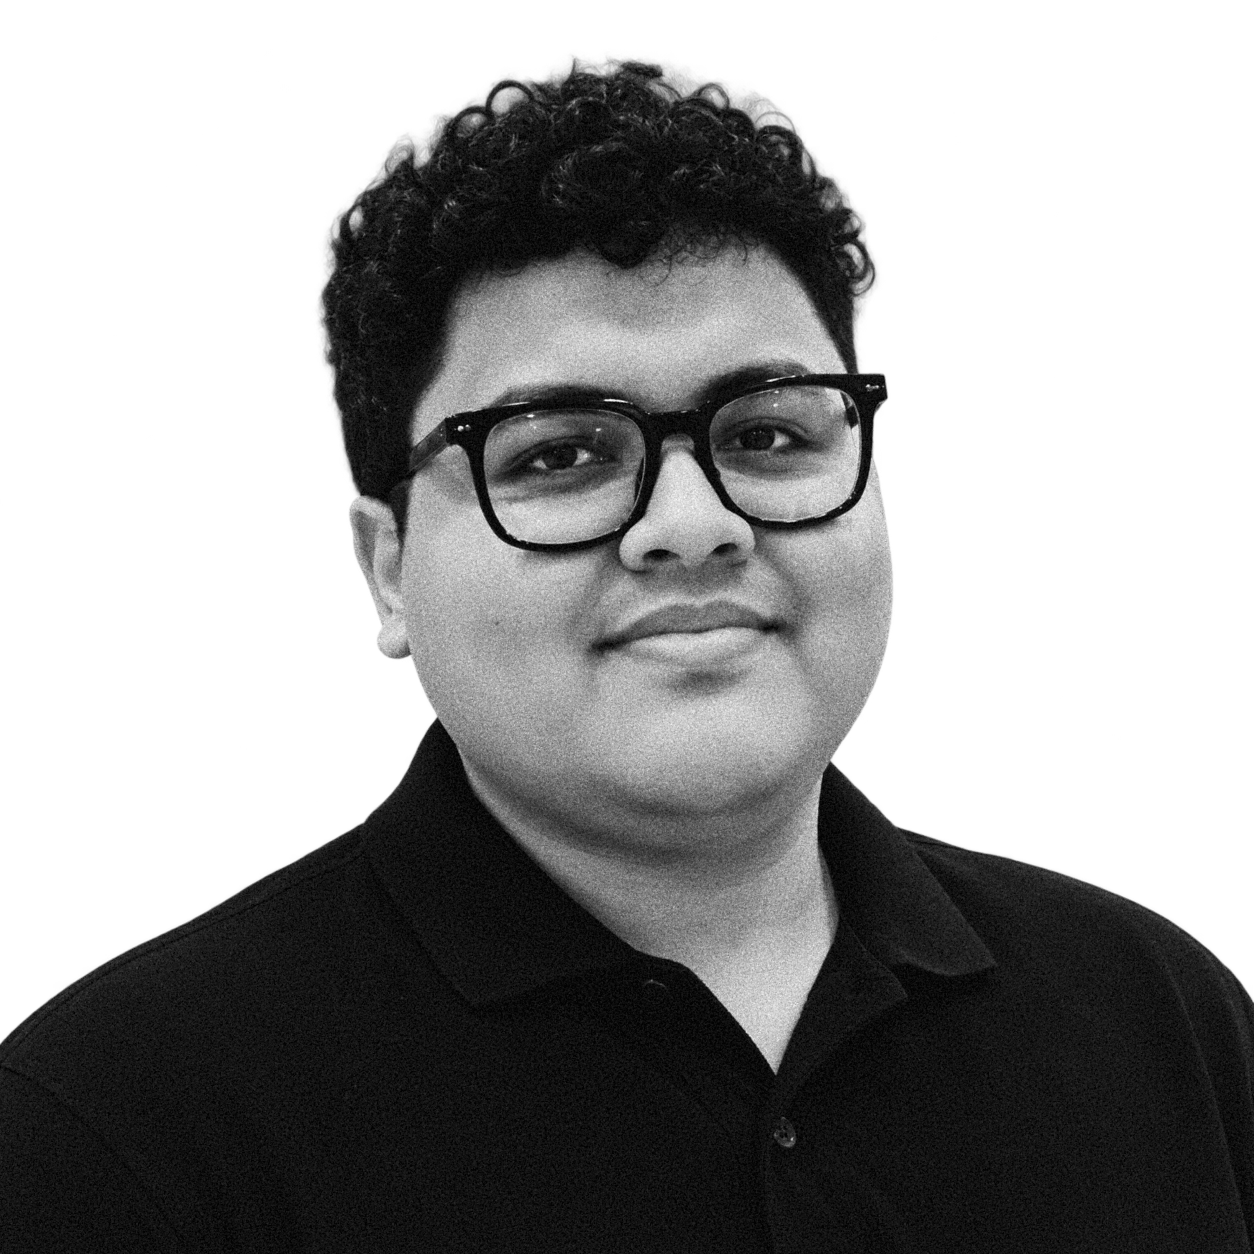
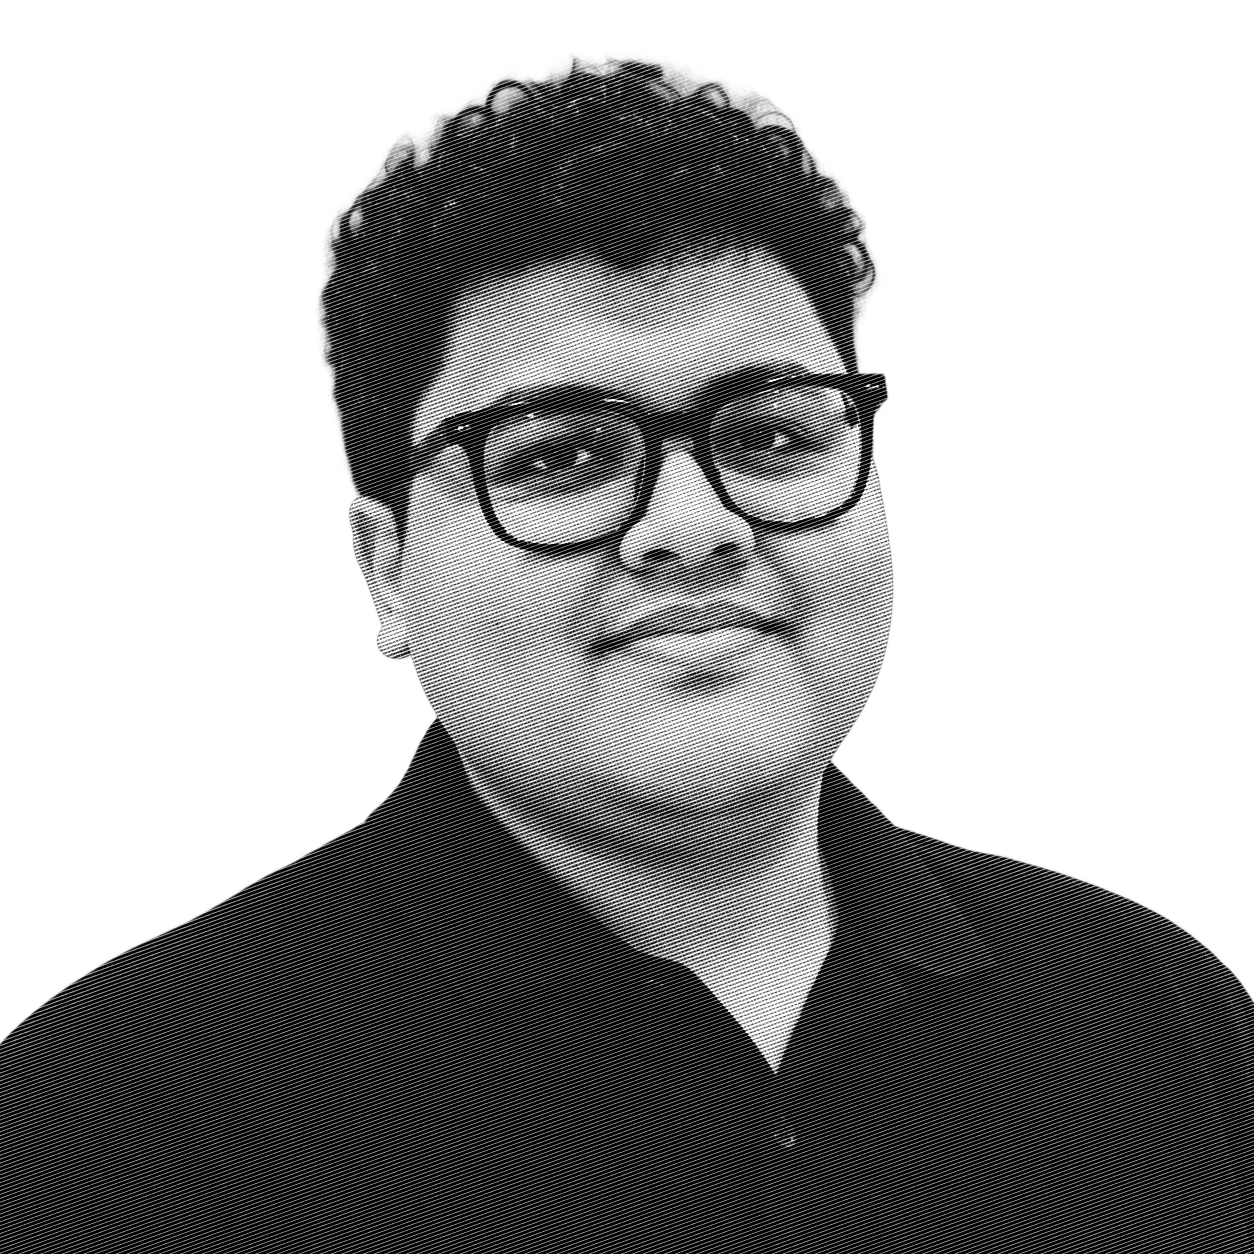
Add files via upload

Changed region(s): [[0.0, 0.0311, 1.0, 1.0]]

diff --git a/index.html b/index.html
@@ -151,16 +151,18 @@
 
   footer { margin-top: 4rem; padding-bottom: 2.5rem; text-align: center; }
 
-  /* Face: ~60% of the width on phones, centered; one third of the content width from 576px up.
-     Square, never overflows, and space is reserved before it loads (no layout shift). */
+  /* Intro: photo + About, laid out like a 12-column grid.
+     Phones: photo above the text, centered, ~60% of the width.
+     576px and up: photo in the left third, text in the right two thirds. */
+  .intro { display: grid; gap: 1.5rem; }
+  .face-col { width: calc(60% - .6rem); margin: 0 auto; }
   .me {
     display: block;
-    width: calc(60% - .6rem);
+    width: 100%;
     max-width: 100%;
     height: auto;
     aspect-ratio: 1 / 1;
     object-fit: cover;
-    margin: 0 auto 1.5rem;
     cursor: pointer;
     transition: transform 0.3s cubic-bezier(0.175, 0.885, 0.32, 1.275);
   }
@@ -170,8 +172,15 @@
   .me.clicked {
     transform: scale(0.92);
   }
+  .intro .about-text h2 { margin-top: 0; }
+
   @media (min-width: 576px) {
-    .me { width: calc(33.333% - 1rem); }
+    .intro {
+      grid-template-columns: repeat(12, 1fr);
+      align-items: start;
+    }
+    .face-col { grid-column: span 4; width: auto; margin: 0; }
+    .about-text { grid-column: span 8; }
   }
 
   /* ---------- Tablet and up ---------- */
@@ -215,10 +224,15 @@
 
 <main class="wrap">
 
-  <section class="about" aria-labelledby="about">
-    <h2 id="about">About</h2>
-    <p>I turn messy operational problems into working systems: CRM setups, tracking and reporting, SEO and paid campaigns. I have five years across business development and digital marketing, a BSc in Information Technology and an MBA in Digital &amp; Telecom Management.</p>
-    <p>Lately I build small tools with AI, mostly for the marketing and analytics work I already do.</p>
+  <section class="about intro" aria-labelledby="about">
+    <div class="face-col">
+      <img class="me" id="profile-img" src="saud.png" alt="Saud Mukri" width="1254" height="1254" decoding="async" title="Click me">
+    </div>
+    <div class="about-text">
+      <h2 id="about">About</h2>
+      <p>I turn messy operational problems into working systems: CRM setups, tracking and reporting, SEO and paid campaigns. I have five years across business development and digital marketing, a BSc in Information Technology and an MBA in Digital &amp; Telecom Management.</p>
+      <p>Lately I build small tools with AI, mostly for the marketing and analytics work I already do.</p>
+    </div>
   </section>
 
   <section aria-labelledby="work">
@@ -247,8 +261,6 @@
 </main>
 
 <footer class="wrap">
-  <img class="me" id="profile-img" src="saud.png" alt="Saud Mukri" width="1254" height="1254" decoding="async" title="Click me">
-  
   <section class="aside" id="trivia-section" aria-labelledby="fact-h">
     <h2 id="fact-h">Random trivia</h2>
     <p class="aside-note">A quick 5-question quiz, shuffled each time.</p>
